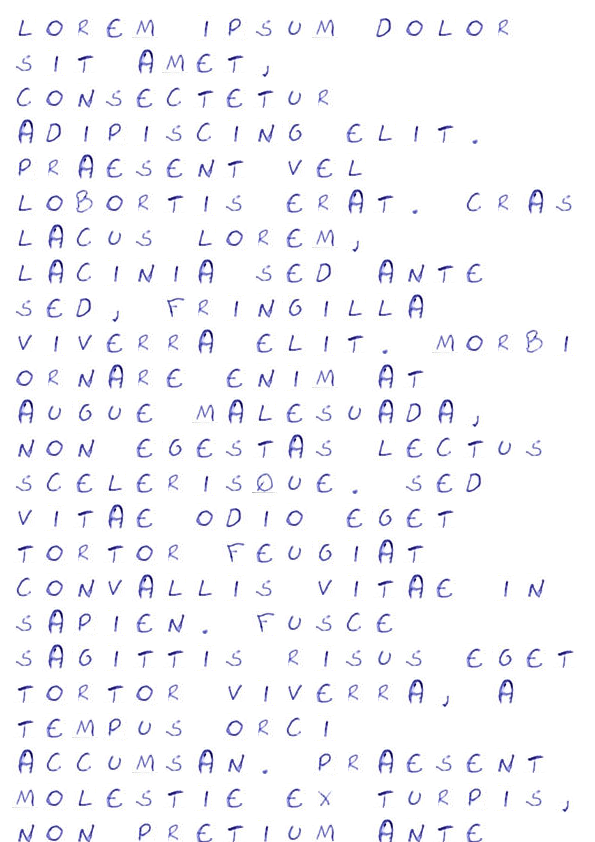
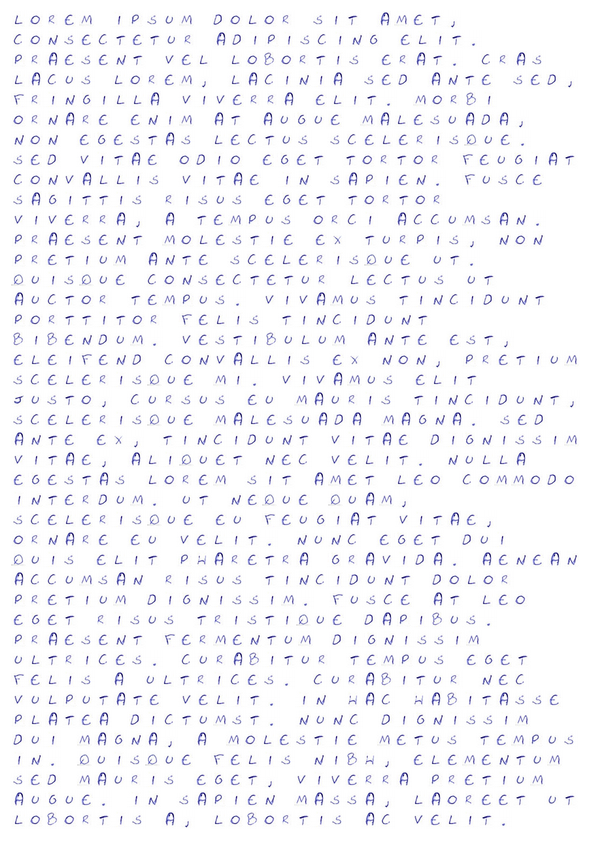
criando o imgs_map

diff --git a/src/text/mod.rs b/src/text/mod.rs
@@ -4,6 +4,8 @@ use pages::PageProps;
 
 use image::*;
 
+use std::{cell::RefCell, collections::HashMap};
+
 pub static CHARS : [char; 32] = ['A', 'B', 'C', 'D', 'E', 'F', 'G', 'H', 'I', 'J', 'K', 'L', 'M', 'N', 'O', 'P', 'Q', 'R', 'S', 'T', 'U', 'V', 'W', 'X', 'Y', 'Z', '?', '!', ',', '.', ';', ':'];
 
 #[derive(Debug)]
@@ -11,12 +13,14 @@ pub struct Letter<'a> {
     pub raw: char,
     width: f32,
     img: Option<image::RgbaImage>,
+    img_ref: Option<&'a image::RgbaImage>,
     page_props: &'a PageProps<'a>,
+    imgs_map: Option<&'a RefCell<HashMap<String, image::RgbaImage>>>,
 }
 
 impl<'a> Letter<'a> {
     pub fn new(letter: char, page_props: &'a PageProps<'a>) -> Letter<'a> {
-        let mut this = Letter { raw: letter, width: 0.0, img: None, page_props };
+        let mut this = Letter { raw: letter, width: 0.0, img: None, page_props, imgs_map: None, img_ref: None };
         this.set_image();
         this
     }
@@ -37,30 +41,44 @@ impl<'a> Letter<'a> {
         format!("./src/assets/{}.png", Letter::char_name(letter))
     }
 
-    pub fn get_img(letter: char) -> ImageResult<DynamicImage> {
+    pub fn get_img(letter: char) -> DynamicImage {
         let path = Letter::get_letter_path(letter);
 
-        image::open(path)
+        image::open(path).unwrap()
     }
 
     pub fn set_image(&mut self) {
-        let img = match Letter::get_img(self.raw) {
-            Ok(i) => i,
-            Err(e) => panic!(e),
+        match self.imgs_map {
+            Some(imgs_map) => {
+                let key = Letter::get_letter_path(self.raw);
+                match imgs_map.borrow().get(&key) {
+                    Some(img) => {
+                        self.img_ref = Some(img);
+                    }
+                    None => {}
+                };
+            },
+            None => {
+                let img = Letter::get_img(self.raw);
+
+                let height = self.page_props.line_height;
+                let prop = height / img.height() as f32;
+                let width = img.width() as f32 * prop;
+                let img = img.resize(width as u32, height as u32, image::imageops::FilterType::Lanczos3);
+                let img = img.to_rgba();
+
+                self.img = Some(img);
+            },
         };
-        let height = self.page_props.line_height as u32;
-        let prop = height / img.height();
-        let width = img.width() * prop;
-        let img = img.resize(width, height, image::imageops::FilterType::Lanczos3);
-
-        self.img = Some(img.to_rgba());
-
     }
 
     pub fn img(&mut self) -> &image::RgbaImage {
-        match &self.img {
-            Some(i) => &i,
-            None => panic!("img error!"),
+        match &self.img_ref {
+            Some(i) => i,
+            None => match &self.img {
+                Some(i) => &i,
+                None => panic!("img error!"),
+            }
         }
     }
 
@@ -216,7 +234,7 @@ impl<'a> Text<'a> {
 
             y += self.page_props.line_height;
 
-            if y >= self.page_props.canvas.height as f32 - self.page_props.margins + self.page_props.line_height {
+            if y + self.page_props.line_height >= self.page_props.canvas.height as f32 - self.page_props.margins {
                 pages.push(page);
                 page = self.page_props.white_page();
                 y = self.page_props.margins;

diff --git a/src/text/pages/mod.rs b/src/text/pages/mod.rs
@@ -20,4 +20,4 @@ impl PageProps<'_> {
     }
 }
 
-pub static DEFAULT : PageProps = PageProps { line_height: 35.0, margins: 10.0, canvas: &canvas::A4, space_width: 30.0 };
+pub static DEFAULT : PageProps = PageProps { line_height: 20.0, margins: 10.0, canvas: &canvas::A4, space_width: 15.0 };
